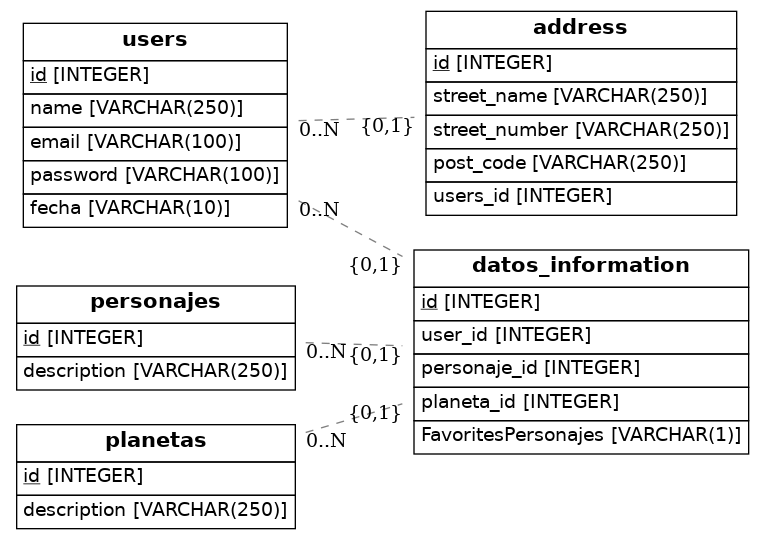
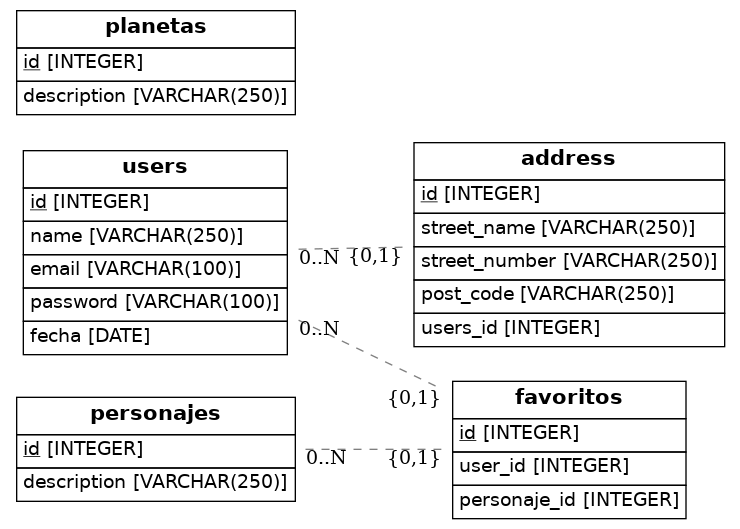
modified:   diagram.png modified:   src/models.py

Changed region(s): [[0.0, 0.0, 0.9946, 0.9981]]

diff --git a/src/models.py b/src/models.py
@@ -1,6 +1,6 @@
 import os
 import sys
-from sqlalchemy import Column, ForeignKey, Integer, String
+from sqlalchemy import Column, ForeignKey, Integer, String, Date
 from sqlalchemy.ext.declarative import declarative_base
 from sqlalchemy.orm import relationship
 from sqlalchemy import create_engine
@@ -14,9 +14,9 @@ class Users(Base):
     # Notice that each column is also a normal Python instance attribute.
     id = Column(Integer, primary_key=True)
     name = Column(String(250), nullable=False)
-    email = Column(String(100), nullable=False)
+    email = Column(String(100), nullable=False, unique=True)
     password = Column(String(100), nullable=False)
-    fecha = Column(String(10), nullable=False)
+    fecha = Column(Date, nullable=False)
 
 class Address(Base):
     __tablename__ = 'address'
@@ -29,32 +29,44 @@ class Address(Base):
     users_id = Column(Integer, ForeignKey('users.id'))
     users = relationship(Users)
 
-class DatosInformation(Base):
-    __tablename__ = 'datos_information'
-    # Here we define columns for the table datos_information.
-    # Notice that each column is also a normal Python instance attribute.
-    id = Column(Integer, primary_key=True)
-    user_id = Column(Integer, ForeignKey("users.id"))
-    personaje_id = Column(Integer, ForeignKey("personajes.id"))
-    planeta_id = Column(Integer, ForeignKey("planetas.id"))
-    FavoritesPersonajes = Column(String(1), nullable=False)
-    users = relationship(Users)
-
 class Personaje(Base):
     __tablename__ = 'personajes'
     # Here we define columns for the table personajes.
     # Notice that each column is also a normal Python instance attribute.
     id = Column(Integer, primary_key=True)
-    description = Column(String(250))
-    datosinformation = relationship(DatosInformation)
+    description = Column(String(250), nullable=False)
+
+class Favoritos(Base):
+    __tablename__ = 'favoritos'
+    # Here we define columns for the table favoritos.
+    # Notice that each column is also a normal Python instance attribute.
+    id = Column(Integer, primary_key=True)
+    user_id = Column(Integer, ForeignKey("users.id"))
+    users = relationship(Users)
+    personaje_id = Column(Integer, ForeignKey("personajes.id"))
+    personaje = relationship(Personaje)
 
 class Planeta(Base):
     __tablename__ = 'planetas'
     # Here we define columns for the table planetas.
     # Notice that each column is also a normal Python instance attribute.
     id = Column(Integer, primary_key=True)
-    description = Column(String(250))
-    datosinformation = relationship(DatosInformation)
+    description = Column(String(250), nullable=False)
+
+class Character(Base):
+    __tablename__ = 'character'
+    # Here we define columns for the table planetas.
+    # Notice that each column is also a normal Python instance attribute.
+    id = Column(Integer, primary_key=True)
+    name = Column(String(250), nullable=True)
+    description = Column(String(250), nullable=False)
+    personaje_id = Column(Integer, ForeignKey("personajes.id"))
+    personaje = relationship(Personaje)
+    planeta_id = Column(Integer, ForeignKey("planetas.id"))
+    planeta = relationship(Planeta)
+    user_id = Column(Integer, ForeignKey("users.id"))
+    users = relationship(Users)
+
 
     def to_dict(self):
         return {}
